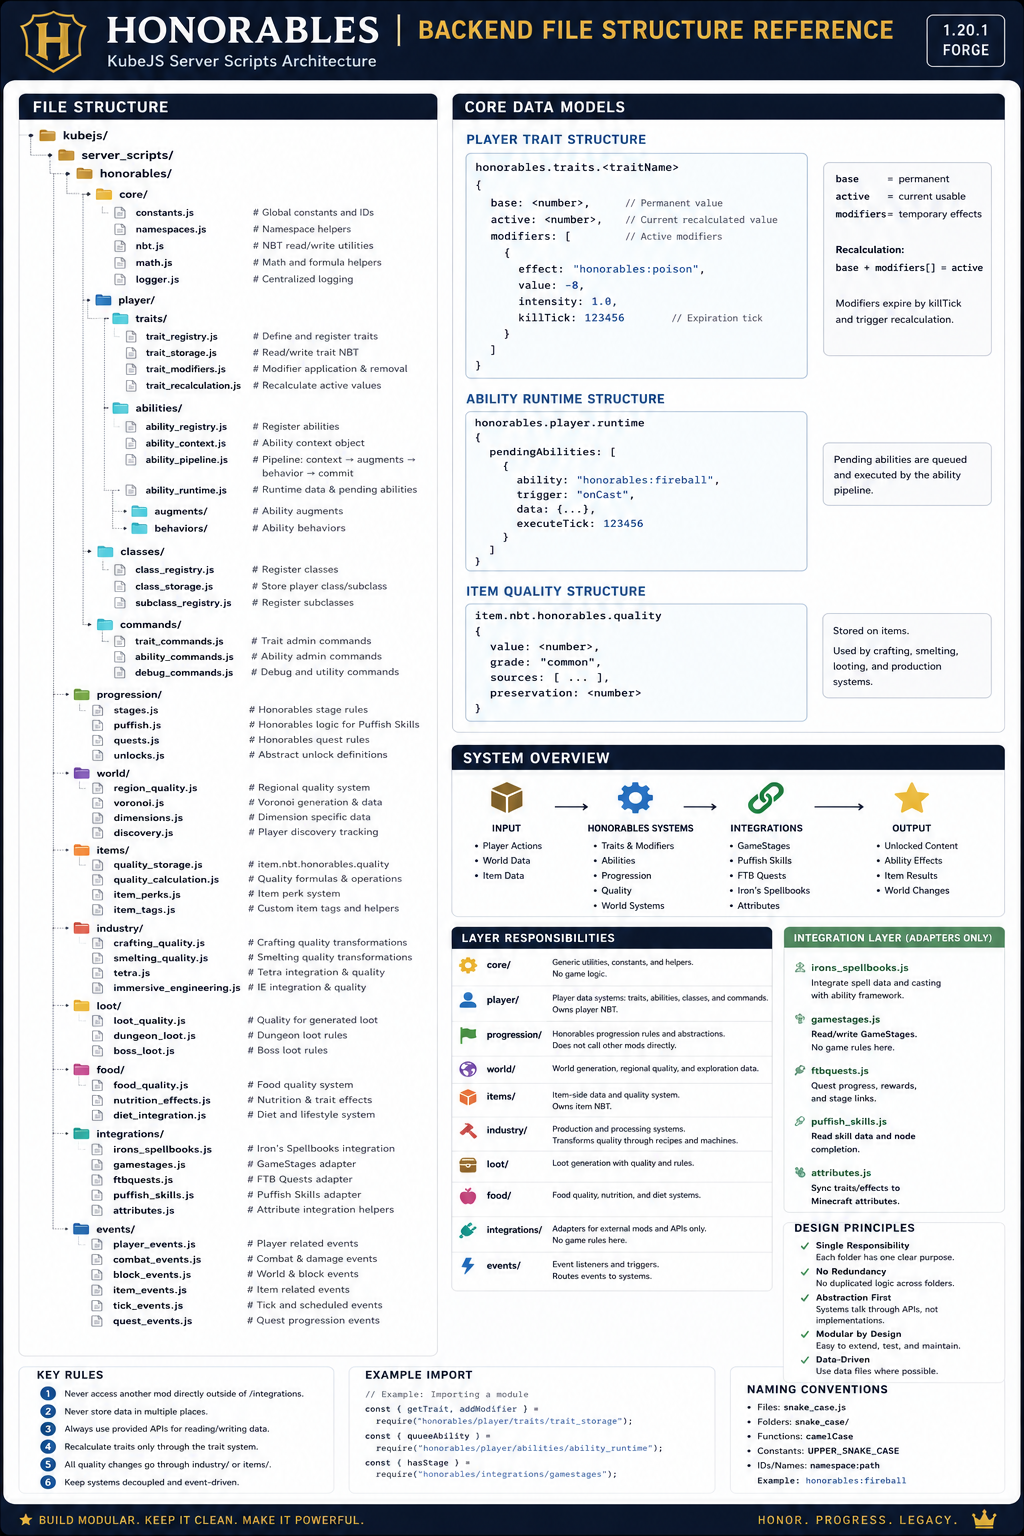
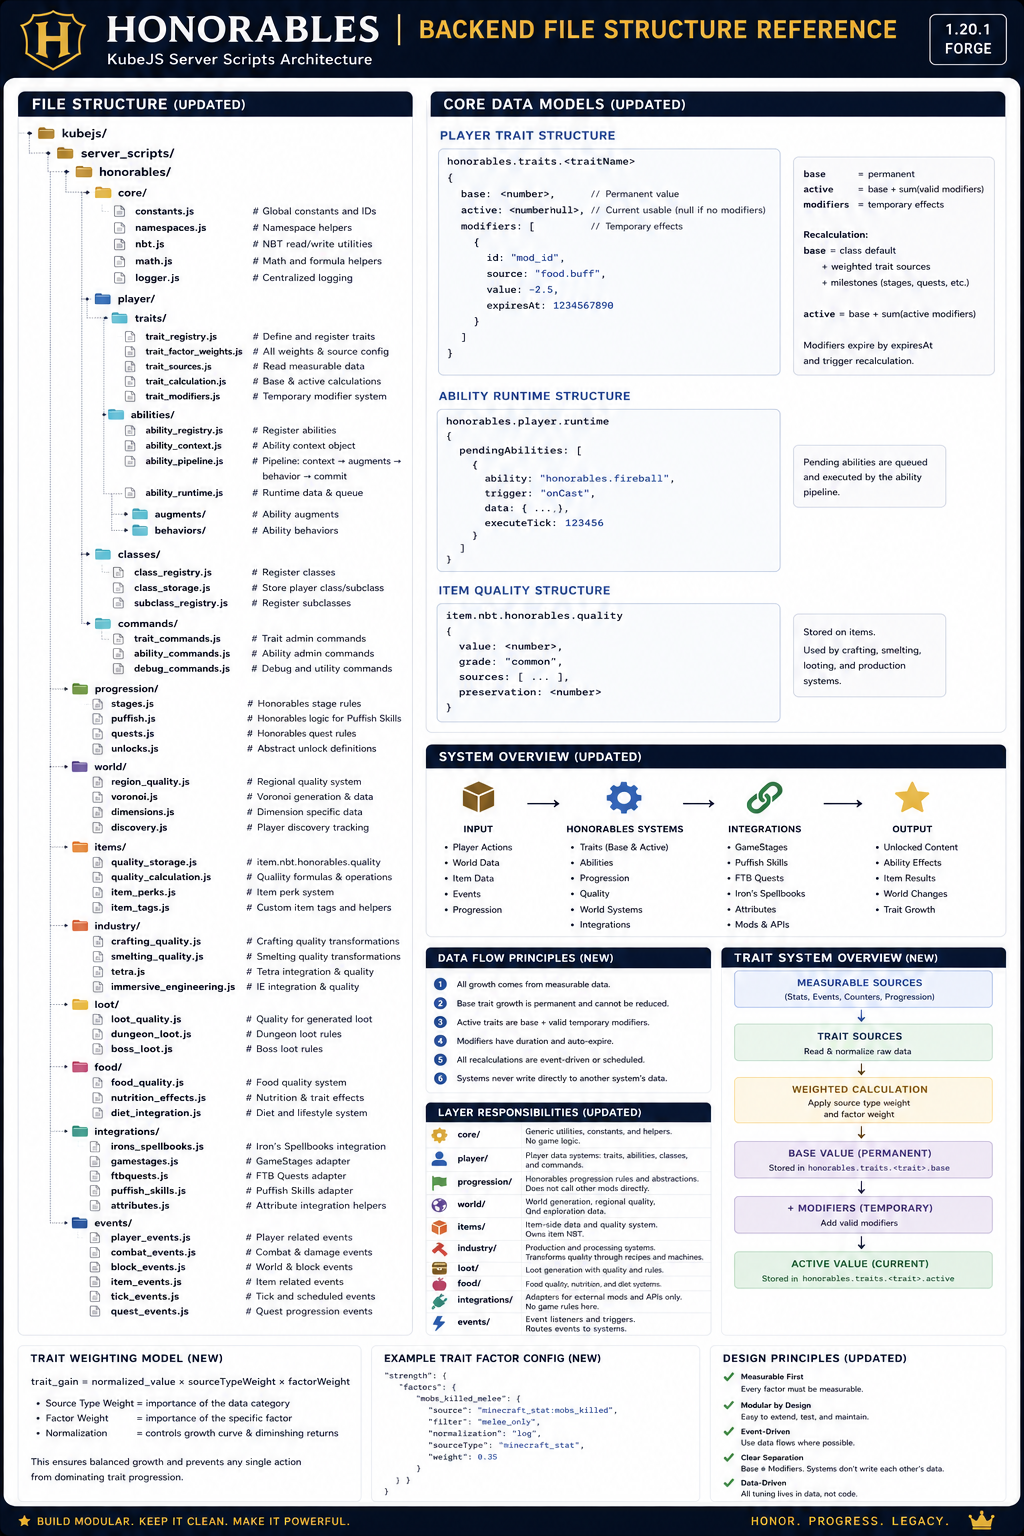
started adding the trait scripts

diff --git a/kubejs/server_scripts/player/traits/trait_factors.js b/kubejs/server_scripts/player/traits/trait_factors.js
@@ -1,0 +1,76 @@
+// this file will contain all the weights for each factor used in trait calculation
+
+const FACTOR_WEIGHTS = {
+    VANILLA_STATS: {
+        WEIGHT: 1,
+        SUBFACTOR_WEIGHTS: {
+            //various subfactors and their weights go here
+        }
+    },
+
+    PLAYER_EVENTS: {
+        WEIGHT: 1,
+        SUBFACTOR_WEIGHTS: {
+            //ibid
+        }
+    },
+
+    PLAYER_HISTORY: {
+        WEIGHT: 1,
+        SUBFACTOR_WEIGHTS: {
+            //ibid
+        }
+    },
+
+    STAGES: {
+        WEIGHT: 1,
+        SUBFACTOR_WEIGHTS: {
+            //ibid
+        }
+    }
+}
+
+const TRAIT_FACTORS = {
+    STRENGTH: {
+        VANILLA_STATS: [],
+        PLAYER_EVENTS: [],
+        PLAYER_HISTORY: [],
+        STAGES: []
+    },
+    ENDURANCE: {
+        VANILLA_STATS: [],
+        PLAYER_EVENTS: [],
+        PLAYER_HISTORY: [],
+        STAGES: []
+    },
+    CONSTITUTION: {
+        VANILLA_STATS: [],
+        PLAYER_EVENTS: [],
+        PLAYER_HISTORY: [],
+        STAGES: []
+    },
+    AGILITY: {
+        VANILLA_STATS: [],
+        PLAYER_EVENTS: [],
+        PLAYER_HISTORY: [],
+        STAGES: []
+    },
+    DEXTERITY: {
+        VANILLA_STATS: [],
+        PLAYER_EVENTS: [],
+        PLAYER_HISTORY: [],
+        STAGES: []
+    },
+    INTELLIGENCE: {
+        VANILLA_STATS: [],
+        PLAYER_EVENTS: [],
+        PLAYER_HISTORY: [],
+        STAGES: []
+    },
+    WISDOM: {
+        VANILLA_STATS: [],
+        PLAYER_EVENTS: [],
+        PLAYER_HISTORY: [],
+        STAGES: []
+    }
+}

diff --git a/kubejs/server_scripts/player/traits/trait_registry.js b/kubejs/server_scripts/player/traits/trait_registry.js
@@ -2,11 +2,13 @@
 import { CONSTANTS } from "../../core/constants";
 
 class Trait {
-    constructor(id, display, DEFAULT_BASE, description) {
+    constructor(id, display, defaultBase, description) {
         this.id = id;
         this.display = display;
-        this.DEFAULT_BASE = DEFAULT_BASE;
+        this.defaultBase = defaultBase;
         this.description = description;
+        this.maxValue = 300;
+        this.minValue = 1;
     }
 
     export(){
